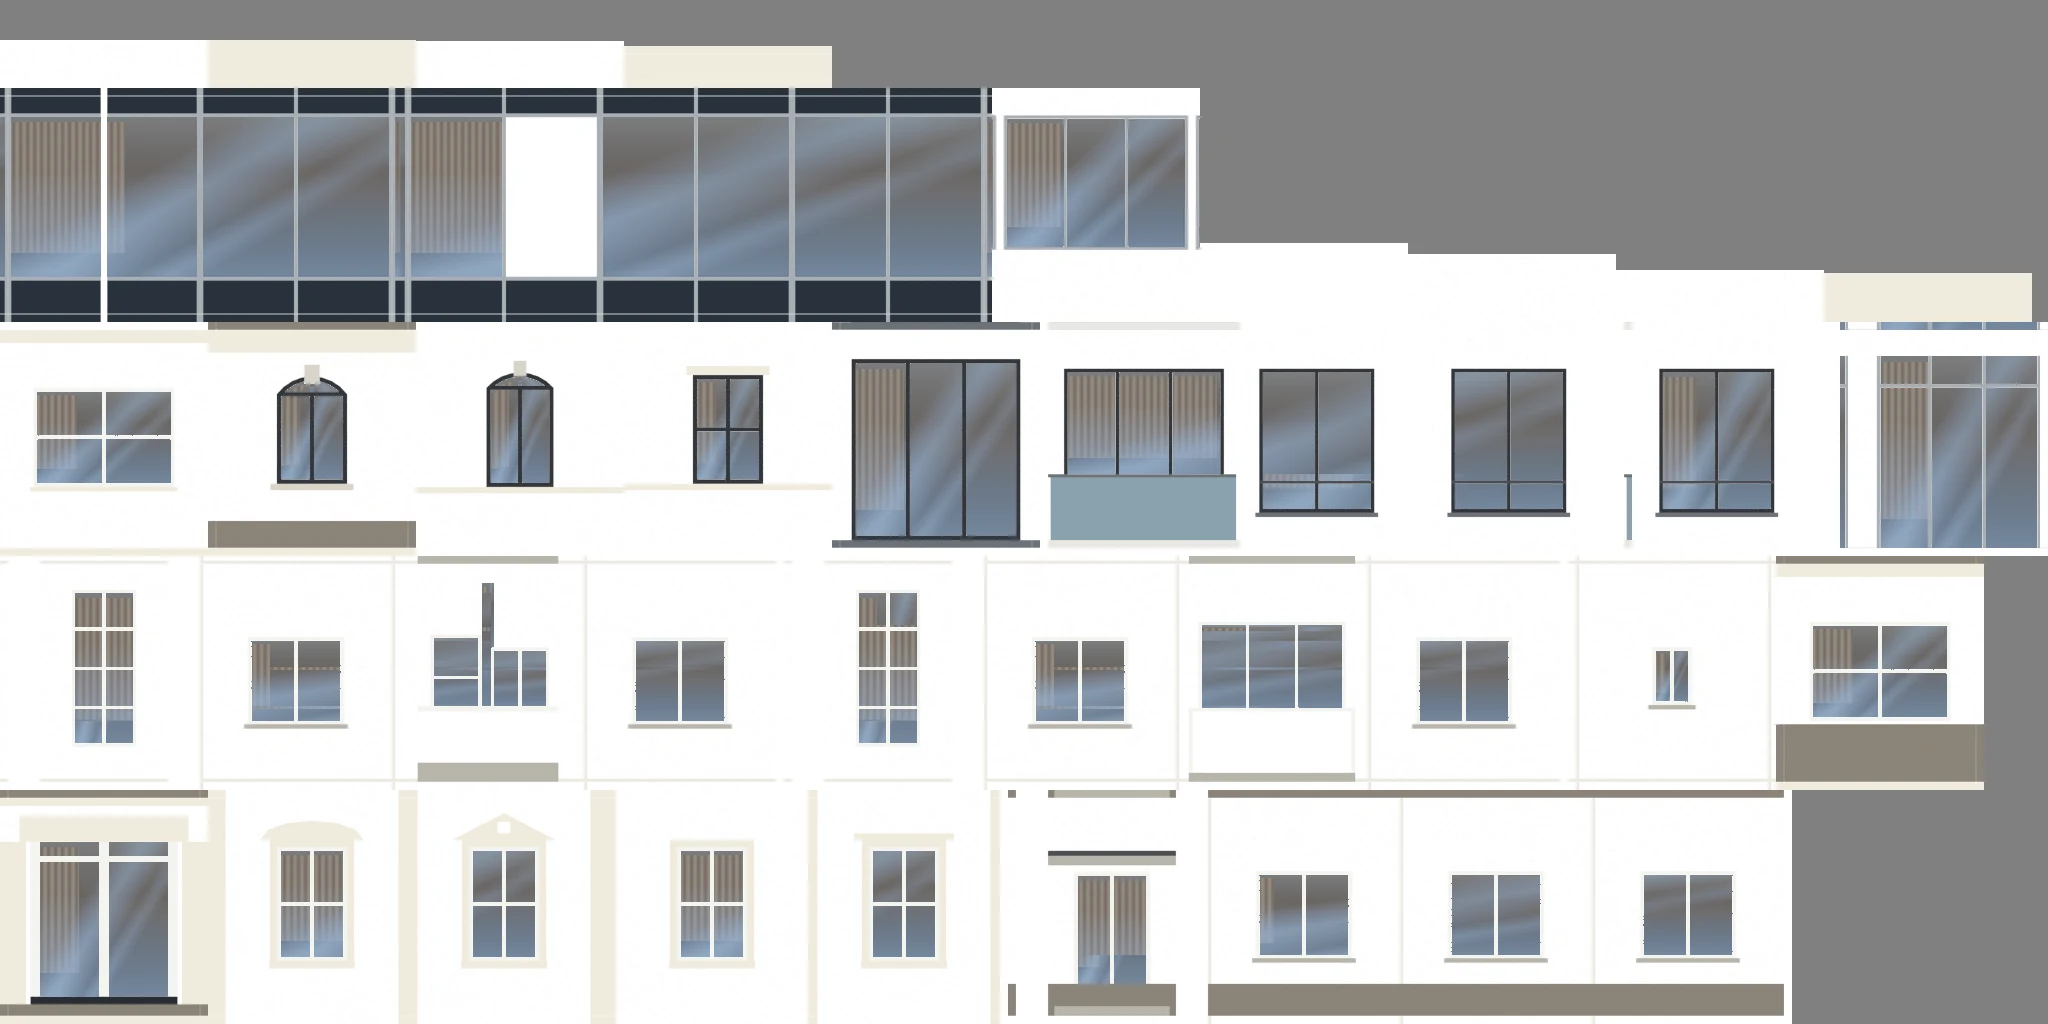
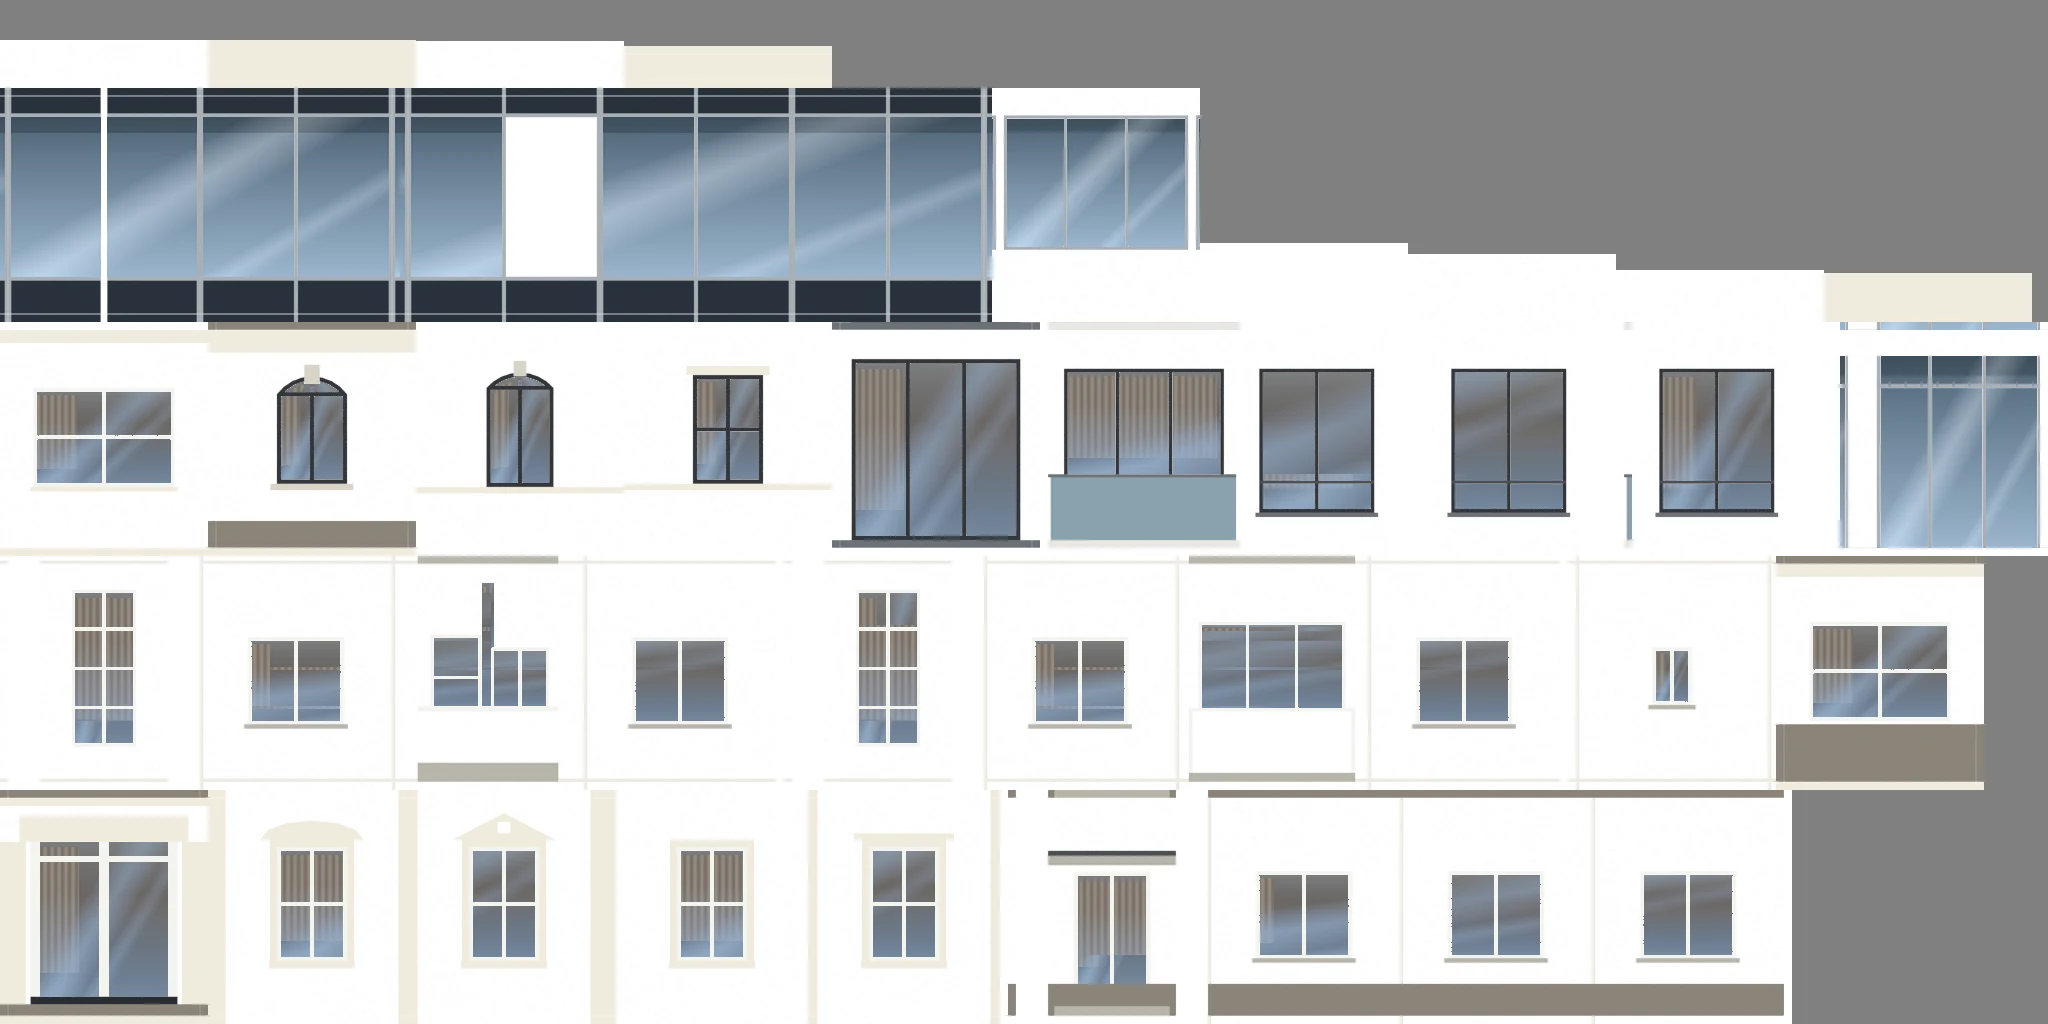
S0004 18: office far facades get reflective glass cells instead of curtained rooms

Changed region(s): [[0.2812, 0.0938, 0.5938, 0.2812], [0.0, 0.0938, 0.25, 0.2812], [0.9062, 0.3125, 1.0, 0.5625]]

diff --git a/scripts/blender/housebake.py b/scripts/blender/housebake.py
@@ -95,6 +95,22 @@ def layout(objs, mods, over, mats):
 
 def srgb_enc(x): x = np.clip(x, 0, 1); return np.where(x <= 0.0031308, x * 12.92, 1.055 * np.power(x, 1 / 2.4) - 0.055)
 
+def paint_office_glass(col, msk):
+    """Office curtain wall (S0004 18): no room behind the pane, a mirror of the sky. Blue-grey, light at the top of each pane, darker towards the floor plate, two soft diagonal glints, a faint ceiling-void band."""
+    g = msk[:, :, 2] > 0.5; h, w = g.shape
+    ys = np.arange(h)[:, None].repeat(w, 1).astype(np.float32); xs = np.arange(w)[None, :].repeat(h, 0).astype(np.float32)
+    big = 1e9
+    ymin = np.where(g, ys, big).min(0)[None, :]; ymax = np.where(g, ys, -big).max(0)[None, :]
+    xmin = np.where(g, xs, big).min(1)[:, None]; xmax = np.where(g, xs, -big).max(1)[:, None]
+    t = np.clip((ys - ymin) / np.maximum(ymax - ymin, 1), 0, 1); s = np.clip((xs - xmin) / np.maximum(xmax - xmin, 1), 0, 1)
+    top_c = np.array([0.33, 0.47, 0.62]); bot_c = np.array([0.07, 0.12, 0.17])
+    base = bot_c + (top_c - bot_c) * (1 - t ** 0.8)[..., None]
+    d = s * 0.7 + (1 - t) * 0.5; glint = np.clip(1 - np.abs(d - 0.55) / 0.12, 0, 1) * 0.35 + np.clip(1 - np.abs(d - 0.9) / 0.05, 0, 1) * 0.2
+    base = base + glint[..., None] * np.array([0.5, 0.55, 0.6])
+    void = ((t > 0.9) & (t <= 1.0)).astype(np.float32)[..., None]; base = base * (1 - 0.35 * void)
+    col[g] = np.clip(base, 0, 1)[g]
+    return col
+
 def paint_glass(col, msk):
     """Window panes: a dark room (lighter ceiling, a curtain, a warm wall) with a soft sky reflection. Per column / row extents of the glass give each pane its own gradient."""
     g = msk[:, :, 2] > 0.5; h, w = g.shape
@@ -139,7 +155,7 @@ def main():
             me, bk = o.data, o.name == 'backdrop'; bpy.data.objects.remove(o)
             if bk: bpy.data.meshes.remove(me)
         alb, msk, dep, ao = passes['alb'], passes['msk'], passes['dep'], passes['ao']
-        col = paint_glass(alb.copy(), msk)
+        col = (paint_office_glass if name.startswith('of_') else paint_glass)(alb.copy(), msk)
         pl = msk[:, :, 0] > 0.5; n = np.random.default_rng(zlib.crc32(name.encode())).normal(0, 1, col.shape[:2]).astype(np.float32); n = blur(n, True)
         col[pl] *= (1.0 + 0.03 * n[pl])[:, None]                                # plaster grain
         nrm = normals(dep, ppm)

diff --git a/work/tasks/S0004-kosice-polish/18-street-profile-cars-trams.md b/work/tasks/S0004-kosice-polish/18-street-profile-cars-trams.md
@@ -21,7 +21,7 @@
 - [ ] audit, flicker --plot all --quality all, check.mjs all High/Low pass; screenshots from the game camera on
       Terasa and Juzna showing the street profile and a tram.
 - [x] Tall blank pale pillars along the road on the Kulturpark plot (seen by the S0004 13 modeler) - find their source and fix.
-- [ ] Far-facade glass of offices shows a room with curtains - offices get an office interior/reflective glass cell.
+- [x] Far-facade glass of offices shows a room with curtains - offices get an office interior/reflective glass cell.
 - [x] FIRST: flicker regression in this worktree - after S0004 16 tile roofs the depth check on game/low poses rose to 0.75-0.8 % mean, 1.0-1.27 % max on every plot (was 0.26 %). Likely the new high-frequency clay-tile/membrane textures aliasing (check mipmaps, anisotropy, texel scale) or another WIP; bisect over the s/S0004-wip commits and fix so flicker --plot all --quality all passes again.
 - [x] Barracks roofs (S0004 13) should read as dark metal, not tinted clay tiles.
 
@@ -30,3 +30,4 @@
 - Barracks roofs: own `metal` builder and `metalRoofMaterial` in near-ring.ts (dark coated steel, 0.5 m standing seams, metalness 0.45); shot tests/browser/out-s4-18/kit-high-p2-barracks-high.png. flicker all presets passed with it.
 - Cars: the stretched yellow cars were the buses of the moving traffic (the car body scaled 1.5 x 2.3, 9.7 m long). `js/world.ts`: a real bus model (`busGeo`, 11 m, windows, wheels, lights; own instanced meshes, no non-uniform scale anywhere). Parked cars keep 3 m from the tower's pad (`CAR_PAD_GAP` in `js/core/placement.ts`, test added), moving cars turn round / re-enter 4 m before the end of a route, so none reaches the pad where the streets are cut. Shots (`tests/browser/s4-18.mjs`, loadPlot + fixed poses): tests/browser/out-s4-18/p0-high-high.png (no car near the pad), bus-high.png. npm test 129, audit all plots 0 findings.
 - Pillars: the Kulturpark extract has ~160 untagged footprints of 15-45 m2 (garage rows, sheds, e.g. five 20 m2 boxes at x 4..18, z -63) that near-ring.ts built as 2-4 storey old-town houses, i.e. 6-12 m tall blank towers 4 m wide. `tiny` now covers footprints under 45 m2 without a height tag of 5.5 m or more: one storey (garage with a roof). Shot tests/browser/out-s4-18/p2-high-garages.png (before: three storey slivers).
+- Office glass: `paint_office_glass` in scripts/blender/housebake.py (sky mirror, light at the top of each pane, dark towards the floor plate, two glints, no room or curtain) for the `of_*` cells; rebaked, only housefacade_col.webp changed (nrm, msk, json identical). Shot tests/browser/out-s4-18/kit-high-p3-office-high.png.
